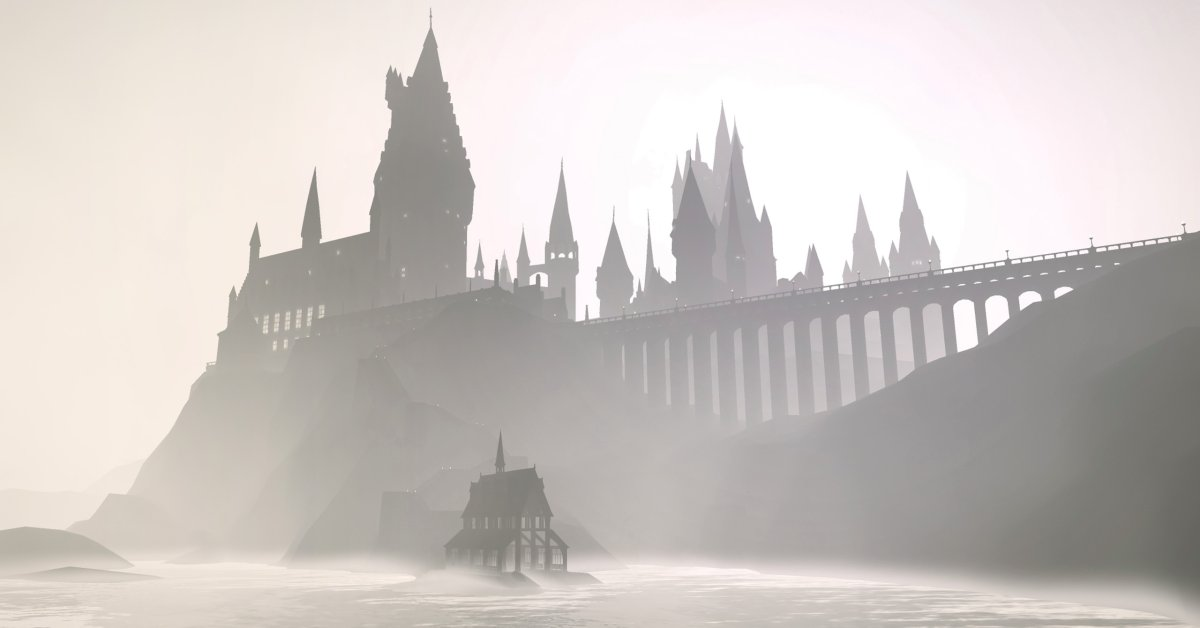
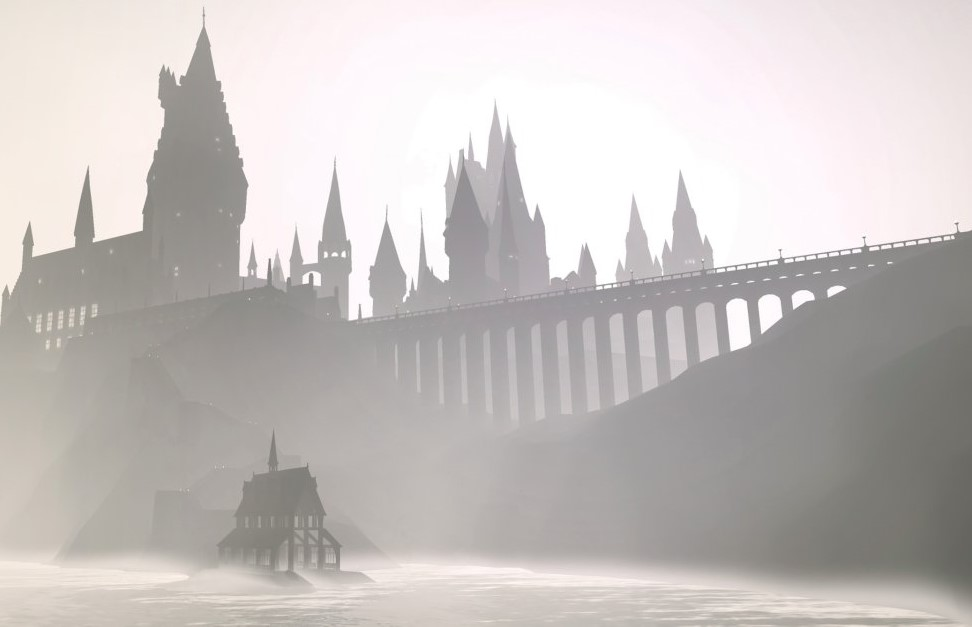
background image changed, spell image changed

diff --git a/js/game.js b/js/game.js
@@ -21,7 +21,7 @@ let ctx = canvas.getContext("2d");
 //load all images
 
 let bg = new Image();
-bg.src = "./images/background.jpg";
+bg.src = "./images/plainbg.png";
 
 let hp = new Image();
 hp.src = "./images/harry.png";
@@ -30,7 +30,7 @@ let dementor = new Image();
 dementor.src = "./images/dementor.png";
 
 let spell = new Image();
-spell.src = "./images/spell.png";
+spell.src = "./images/spelldark.png";
 
 let intervalId = 0;
 let isGameOver = false;

diff --git a/style.css b/style.css
@@ -59,14 +59,15 @@ h1 {
 }
 
 canvas {
-  border: 1px solid rgb(197, 194, 189);
+  
+  border: 3px solid #95928D;
 }
 
 .score-board {
   font-family: "Special Elite";
   background-color: rgb(243, 236, 236);
   padding: 10px;
-  border-radius: 1000px;
+  border-radius: 1000px; 
 }
 
 .game-victory {
